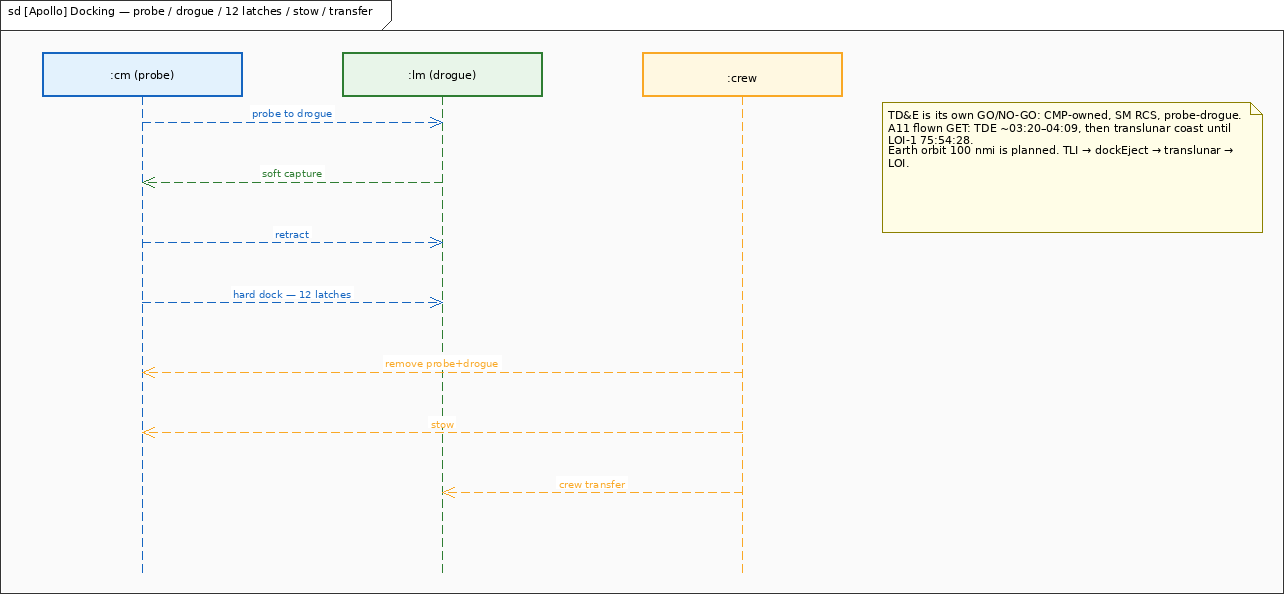
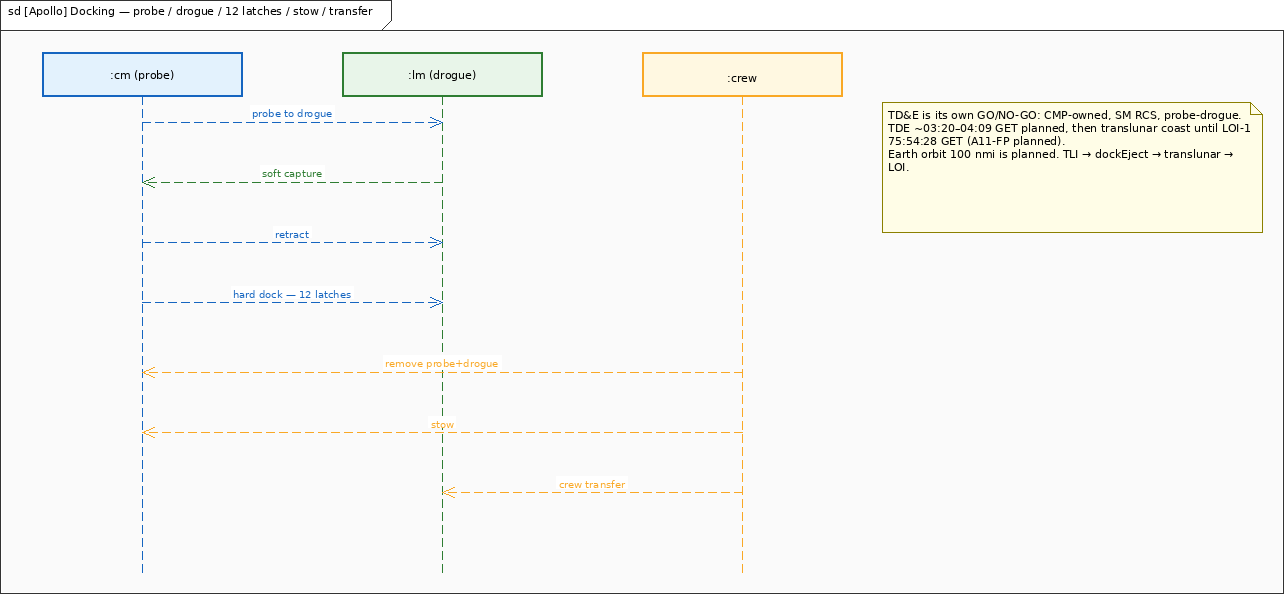
Relabel GET planned vs flown and close MG-01..03
Apollo model and walkthrough now cite A11-FP only for planned LOI-1 75:54:28, flown TIG 075:49:49.65, and TLI PK / A11-FP / MSC-00171. NPR stays MagicGrid with plain-language ideas. E-bike note still teaches packEnergy; toaster heat still lands on the carriage. Drop unsourced frame yield.

Changed region(s): [[0.6854, 0.2121, 0.9657, 0.303]]

diff --git a/tests/test_apollo_example.py b/tests/test_apollo_example.py
@@ -249,13 +249,16 @@ class ApolloExampleTests(unittest.TestCase):
         self.assertIn("PK planned 02:44:15", tli_do)
         self.assertIn("A11-FP 2:44:26", tli_do)
         self.assertIn("flown 02:44:16", tli_do)
+        self.assertIn("MSC-00171", tli_do)
         self.assertNotIn("02:44:16.2", tli_do)
         loi_do = defs["Apollo.State.Mission.LOI"].get("do", "")
         self.assertIn("75:54:28", loi_do)
         self.assertIn("A11-FP", loi_do)
         self.assertIn("planned", loi_do)
-        self.assertIn("~075:49:50", loi_do)
+        self.assertIn("075:49:49.65", loi_do)
+        self.assertNotIn("075:49:50", loi_do)
         self.assertNotIn("Press Kit", loi_do)
+        self.assertNotIn("A11-FP / Press Kit", loi_do)
         self.assertNotIn(" PK", f" {loi_do}")
         self.assertIn("long coast", defs["Apollo.State.Mission.translunar"].get("do", ""))
         self.assertIn("LOI-1", defs["Apollo.State.Mission.translunar"].get("do", ""))
@@ -547,14 +550,17 @@ class ApolloExampleTests(unittest.TestCase):
         self.assertIn("PK planned 02:44:15", tli_do)
         self.assertIn("A11-FP 2:44:26", tli_do)
         self.assertIn("flown 02:44:16", tli_do)
+        self.assertIn("MSC-00171", tli_do)
         get_note = defs["Apollo.Note.GetPlannedFlown"]["text"]
         self.assertIn("75:54:28 GET A11-FP planned", get_note)
         self.assertIn("do not cite Press Kit as the LOI-1 source", get_note)
-        self.assertIn("~075:49:50", get_note)
+        self.assertIn("075:49:49.65", get_note)
+        self.assertNotIn("075:49:50", get_note)
         self.assertIn("PK planned 02:44:15", get_note)
         self.assertIn("A11-FP 2:44:26", get_note)
-        self.assertIn("flown 02:44:16", get_note)
+        self.assertIn("flown 02:44:16 (MSC-00171)", get_note)
         self.assertNotIn("02:44:16.2", get_note)
+        self.assertNotIn("A11-FP / Press Kit", get_note)
         self.assertEqual(defs["Apollo.State.Mission.earthOrbit"].get("do"), "100 nmi planned")
         ecs = {p["name"]: p["type"] for p in defs["Apollo.LM_ECS"]["compartments"]["properties"]}
         self.assertIn("2800", ecs["descentO2"])

diff --git a/tests/test_package.py b/tests/test_package.py
@@ -212,16 +212,15 @@ class PackageApiTests(unittest.TestCase):
         self.assertIn("75:54:28", apollo)
         self.assertIn("A11-FP planned", apollo)
         self.assertIn("do not cite Press Kit as the LOI-1 source", apollo)
-        self.assertIn("075:49:50", apollo)
+        self.assertNotIn("A11-FP / Press Kit", apollo)
+        self.assertIn("075:49:49.65", apollo)
+        self.assertNotIn("075:49:50", apollo)
         self.assertIn("2:44:26", apollo)
         self.assertIn("02:44:16", apollo)
+        self.assertIn("MSC-00171", apollo)
         self.assertNotIn("02:44:16.2", apollo)
-        self.assertIn("Stakeholder", apollo)
-        self.assertIn("Use Cases", apollo)
-        self.assertIn("Functional", apollo)
-        self.assertIn("Logical", apollo)
-        self.assertIn("Physical-subsystem", apollo)
-        self.assertIn("Verification", apollo)
+        self.assertIn("plain language", apollo)
+        self.assertIn("names stay MagicGrid", apollo)
         self.assertIn("not a midcourse correction", apollo)
         self.assertIn("not S-IVB ullage", apollo)
         self.assertIn("not operations", apollo)

diff --git a/projects/apollo/architecture-summary.md b/projects/apollo/architecture-summary.md
@@ -4,16 +4,16 @@ A student can follow this note with `apollo-model.msml` open. It walks Apollo 11
 
 This is **not** a Department of Defense Architecture Framework (DoDAF) product set. There are no All Viewpoint (AV), Operational Viewpoint (OV), Systems Viewpoint (SV), Data and Information Viewpoint (DIV), or Technical Viewpoint (TV) products here.
 
-NASA NPR 7123.1 (NASA Procedural Requirements 7123.1, NASA Systems Engineering Processes and Requirements) is taught **inside** these MagicGrid headings. The walkthrough names the NPR layers so a student can see them. The outline stays MagicGrid — do not switch the section order.
+NASA NPR 7123.1 (NASA Procedural Requirements 7123.1, NASA Systems Engineering Processes and Requirements) is the civil systems-engineering process this walkthrough teaches in **plain language**. Names stay MagicGrid, not NPR product titles. Do not treat MagicGrid section titles as NPR 7123.1 layer names.
 
-| MagicGrid heading | NPR 7123.1 layer named here |
+| MagicGrid heading | NPR idea in plain language |
 | --- | --- |
-| 1. Problem / context | **Stakeholder** |
-| 2. Requirements and use cases | **Requirements** then **Use Cases** |
-| 3. Structure | **Logical** then **Physical-subsystem** |
-| 4. Behavior | **Functional** |
-| 5. Parametrics | **Parametrics** |
-| 6. Allocations | **Verification** |
+| 1. Problem / context | Who needs what from the mission |
+| 2. Requirements and use cases | The shalls that implement those expectations, and the stories that use them |
+| 3. Structure | How the stack is built — parts that realize the functions |
+| 4. Behavior | How the design solution operates in time |
+| 5. Parametrics | Sourced numbers and analyses that support the design |
+| 6. Allocations | Which part satisfies which shall |
 | 7. Open risks / unmarked | What the sources do not close — do not invent |
 
 Namespace `Apollo`. File stem `apollo`. Civil / historical architecture only — no classified or biomedical detail. Numbers are from NASA primary sources; a few values (including an official Command/Service Module (CSM) lunar Δv table) are intentionally left unmarked.
@@ -22,9 +22,7 @@ The instance is Apollo 11 / Block II on vehicle AS-506: SA-506 = S-IC-6 / S-II-6
 
 ## 1. Problem / context
 
-**Stakeholder.** Who needs what from the mission.
-
-**Who.** Flight crew: Commander (CDR), Command Module Pilot (CMP), Lunar Module Pilot (LMP). Launch commit at Kennedy Space Center (KSC) Launch Complex 39 (LC-39). Flight control after tower clear at Mission Control Center Houston (MCC-H). MCC is Mission Control Center Houston, not a midcourse correction burn. Apollo 11 used Mission Operations Control Room 2 (MOCR 2). Trajectory and uplink compute at the Real-Time Computer Complex (RTCC). Ground network: Goddard Space Flight Center (GSFC) / NASA Communications Network (NASCOM) and the Manned Space Flight Network (MSFN). Range Safety Officer (RSO) / Air Force Eastern Test Range (AFETR) owns destruct **outside** MCC. Recovery is Task Force 130 (TF-130) / USS *Hornet*. Earth and Moon are landing / launch-recovery context.
+**Who (stakeholders).** Flight crew: Commander (CDR), Command Module Pilot (CMP), Lunar Module Pilot (LMP). Launch commit at Kennedy Space Center (KSC) Launch Complex 39 (LC-39). Flight control after tower clear at Mission Control Center Houston (MCC-H). MCC is Mission Control Center Houston, not a midcourse correction burn. Apollo 11 used Mission Operations Control Room 2 (MOCR 2). Trajectory and uplink compute at the Real-Time Computer Complex (RTCC). Ground network: Goddard Space Flight Center (GSFC) / NASA Communications Network (NASCOM) and the Manned Space Flight Network (MSFN). Range Safety Officer (RSO) / Air Force Eastern Test Range (AFETR) owns destruct **outside** MCC. Recovery is Task Force 130 (TF-130) / USS *Hornet*. Earth and Moon are landing / launch-recovery context.
 
 Handoff is KSC → MCC at tower clear — Mission Rule 1-21. RSO is not MCC.
 
@@ -40,7 +38,7 @@ Sources used on the model include Apollo 11 Press Kit (PK) 69-83K, Saturn V Flig
 
 ## 2. Requirements and use cases
 
-**Requirements.** The technical shalls that implement those stakeholder expectations.
+The technical shalls that implement those stakeholder expectations:
 
 | Id | Name | Text / numbers |
 | --- | --- | --- |
@@ -55,17 +53,17 @@ Sources used on the model include Apollo 11 Press Kit (PK) 69-83K, Saturn V Flig
 | `Apollo.foodRequirement` (REQ-009) | Food plan (D-7720) | **D-7720 April 1967** plan baseline: **2800 kcal/man/day CM**, **3200 kcal/man/day LM**. Mass **2.26 lb/man/day** planned. 1967 plan, not A11 flown intake. A11 actual kcal still UNKNOWN. |
 | `Apollo.lmEcsRequirement` (REQ-010) | LM-5 ECS (sourced) | Descent O2 ~48 lb @ **2800 vs 3000 psi** (TN D-6724 — cite both); ascent O2 ~2.4 lb ×2; descent water 332 lb; ascent water 42 lb ×2; Liquid Cooling Garment (LCG) 1200 Btu/man-h steady. |
 
-**Use Cases.** There is no formal use-case package on this MSML model the way the appliances have `Toaster.UC.*`. The stakeholder stories are recovered from the mission state machine (STM), abort STM, activity, and sequences: fly the mission, abort, land, recover.
+There is no formal use-case package on this MSML model the way the appliances have `Toaster.UC.*`. The stakeholder stories are recovered from the mission state machine (STM), abort STM, activity, and sequences: fly the mission, abort, land, recover.
 
 ## 3. Structure
 
-**Logical.** Decomposition of the stack into the parts that realize those functions, before reading a physical-subsystem diagram.
+Decomposition of the stack into the parts that realize those functions, before reading a physical-subsystem diagram.
 
 Pad stack: S-IC-6, S-II-6, S-IVB-6N, IU-6, SLA-14 (**8 panels: 4 jettison / 4 stay**; LM-5), SM (owns **SPS**), CM, LES.
 
 Two AGCs stay separate from AGS. AGS ≠ DSKY. IU = LVDC + ST-124 + FCC; no digital AGC↔LVDC.
 
-**Physical-subsystem.** The design solution on the model.
+The design solution on the model:
 
 **SPS is on the SM, not the CM.** Service Propulsion System (SPS) composition is `Apollo.SM` → `Apollo.SPS`. The CSM internal block diagram (IBD) nests `sps` inside `sm`. Do not hang SPS on the command module.
 
@@ -88,7 +86,7 @@ Docking hardware: CM probe, LM drogue, twelve ring latches. Soft dock then hard 
 
 ## 4. Behavior
 
-**Functional.** How the design solution operates in time — mission, abort, and computer modes.
+How the design solution operates in time — mission, abort, and computer modes.
 
 Mission STM (locked):
 
@@ -96,7 +94,7 @@ countdown → boost → earthOrbit → TLI → dockEject → translunar → LOI 
 
 `dockEject` is its own state (CMP-owned, SM RCS, probe-drogue). Do not draw TLI → translunar or dockEject → LOI, and do not put translunar before dockEject. The locked path is TLI → dockEject → translunar → LOI.
 
-Ground Elapsed Time (GET): distinguish **planned** vs **flown**. Earth orbit **100 nmi is planned**. TLI has **three labeled numbers**: Press Kit **planned** `02:44:15`; A11-FP `2:44:26`; **flown** `02:44:16` (no `02:44:16.2`). TDE `~03:20–04:09` GET is **planned**. LOI-1 has **two strings only**: `75:54:28` GET is **A11-FP planned** (do not cite Press Kit as the LOI-1 source — the same string may appear in the Press Kit); **flown** LOI-1 is `~075:49:50` GET. Splash `195:18:35` Mission Elapsed Time (MET) / 13 nmi sits on Recovery as a sourced MET; that block is not labeled flown. P66 Rate of Descent (ROD) as the A11 landing program is a separate flown-program mark, not a GET clock.
+Ground Elapsed Time (GET): distinguish **planned** vs **flown**. Earth orbit **100 nmi is planned**. TLI has **three labeled numbers**: Press Kit **planned** `02:44:15`; A11-FP `2:44:26`; **flown** `02:44:16` (MSC-00171). TDE `~03:20–04:09` GET is **planned**. LOI-1 has **two strings only**: `75:54:28` GET is **A11-FP planned** (A11-FP is the control source; do not cite Press Kit as the LOI-1 source — the same string may appear in the Press Kit); **flown** LOI-1 TIG is `075:49:49.65` GET. Splash `195:18:35` Mission Elapsed Time (MET) / 13 nmi sits on Recovery as a sourced MET; that block is not labeled flown. P66 Rate of Descent (ROD) as the A11 landing program is a separate flown-program mark, not a GET clock.
 
 Abort machine (parallel): pad/LES, Modes I–IV, contingency TLI, SPS abort, lunar abort (P70 DPS / P71 APS). Crew Safety ≠ LES-only.
 
@@ -106,7 +104,7 @@ The mission activity is the same phase list as a start-to-recovery flow. The lan
 
 ## 5. Parametrics
 
-**Parametrics.** Analyses and sourced numbers that support the design. Conflicts stay **UNRECONCILED** — cite both, no silent winner.
+Analyses and sourced numbers that support the design. Conflicts stay **UNRECONCILED** — cite both, no silent winner.
 
 A11 Press Kit p.109 tank loads and launch masses unless noted. **UNRECONCILED** — same flag as Δv. These are sourced stage loads, **not a closed mass budget**.
 
@@ -139,7 +137,7 @@ Fuel-cell wattage is not in the press kit; a secondary National Air and Space Mu
 
 ## 6. Allocations
 
-**Verification.** Product verification / validation trace — which part satisfies which shall.
+Which part satisfies which shall:
 
 | Requirement | Allocated to |
 | --- | --- |
@@ -177,7 +175,7 @@ Descent O2 tank pressure is cited both ways (2800 vs 3000 psi, TN D-6724). Tank 
 
 ## Generated views
 
-These figures illustrate the architecture above; they do not replace it. Every rendered figure in this folder is listed. Read them as the MagicGrid / NPR layers: context is Stakeholder; `apollo-req` is Requirements; activity and STMs are Functional; BDDs are Logical; IBDs are Physical-subsystem; `apollo-eclss-par` is Parametrics; allocations on the model are Verification.
+These figures illustrate the architecture above; they do not replace it. Every rendered figure in this folder is listed. Read them in MagicGrid order: context, requirements, structure, behavior, sourced numbers, then which part satisfies which shall. Do not treat those figure roles as NPR 7123.1 layer names.
 
 **`apollo-pkg.png` — packages.** LaunchVehicle, Spacecraft, Crew, GNC, Ground, Comms, Mission. Read this first to see how the model is filed.
 

diff --git a/AGENTS.md b/AGENTS.md
@@ -57,7 +57,7 @@ Starter: [templates/new-project/](templates/new-project/). Spec: [msml-specifica
 - P-numbers are not global. CMC P61–P67 is ENTRY; LGC P63–P68 is LANDING — two STMs (`apollo-cmc-stm`, `apollo-lgc-stm`). AGC does not talk digital to LVDC. 1201/1202 is a software restart, not an abort. Cite both SPS 20,500 (PK) vs 21,500 vac (TN D-7375) and DPS 9,870 / 1,050–6,300 (PK) vs 10,500 and 10:1 (TN D-7143).
 - Context is vehicle / crew / MCC / MSFN / Moon / Earth (RTCC sits with MCC). Uplink and downlink are distinct. Two command paths: (A) FC→CCC→RTCC→CCATS→site 642B→USB 70 kHz; (B) P27 V70–V73. Block II antennas are crew-selected.
 - IBD connectors never pass through boxes. Saturn joints are adjacent only.
-- Mission STM: countdown → boost → earthOrbit (100 nmi **planned**) → TLI → dockEject → translunar → LOI → undock → DOI → descent → surface/EVA → ascent → rendezvous → TEI → entry → recovery. `dockEject` is its own state (CMP-owned, SM RCS, probe-drogue). Sequence lock with SysML2d: **TLI → dockEject → translunar → LOI** (not translunar then dockEject). Do **not** jump TLI → translunar or dockEject → LOI. GET: planned vs flown — earth orbit 100 nmi is planned. TLI three labels: PK planned 02:44:15; A11-FP 2:44:26; flown 02:44:16 (no 02:44:16.2). TDE ~03:20–04:09 is planned. LOI-1 two strings only: 75:54:28 GET is A11-FP planned (do not cite Press Kit as the LOI-1 source); flown ~075:49:50 GET. IU owns boost+TLI. RSO owns destruct until orbital safing. Abort machine in parallel: pad/LES, Modes I–IV, contingency TLI, SPS abort, lunar abort (P70 DPS / P71 APS). SPS is on the SM. landingRadar is on the descent stage, not PNGS / ascent.
+- Mission STM: countdown → boost → earthOrbit (100 nmi **planned**) → TLI → dockEject → translunar → LOI → undock → DOI → descent → surface/EVA → ascent → rendezvous → TEI → entry → recovery. `dockEject` is its own state (CMP-owned, SM RCS, probe-drogue). Sequence lock with SysML2d: **TLI → dockEject → translunar → LOI** (not translunar then dockEject). Do **not** jump TLI → translunar or dockEject → LOI. GET: planned vs flown — earth orbit 100 nmi is planned. TLI three labels: PK planned 02:44:15; A11-FP 2:44:26; flown 02:44:16 (MSC-00171). TDE ~03:20–04:09 is planned. LOI-1 two strings only: 75:54:28 GET is A11-FP planned (A11-FP is the control source; do not cite Press Kit as the LOI-1 source); flown LOI-1 TIG 075:49:49.65 GET. IU owns boost+TLI. RSO owns destruct until orbital safing. Abort machine in parallel: pad/LES, Modes I–IV, contingency TLI, SPS abort, lunar abort (P70 DPS / P71 APS). SPS is on the SM. landingRadar is on the descent stage, not PNGS / ascent.
 - Vehicle lock: Apollo 11 / Block II, AS-506 = S-IC-6 / S-II-6 / S-IVB-6N / IU-6 / SLA-14 / CSM-107 / LM-5. Two AGCs (CM Colossus + 2 DSKY; LM Luminary + 1 DSKY). AGS is a separate computer (AEA+ASA+DEDA; abort-to-orbit / rendezvous only). P27 verbs remain V70–V73 only. A11 MCC is MOCR 2 (3rd floor); handoff Mission Rule 1-21 at umbilical-tower clear; Petrone commits launch; AFETR stays parallel destruct. A11 SM cryo is 2 H2 + 2 O2 (not J-mission). No electrical power between Saturn stages; no CSM–LM propellant crossfeed.
 
 ## Checks

diff --git a/skills/author-model/SKILL.md b/skills/author-model/SKILL.md
@@ -21,7 +21,7 @@ Read [msml-specification.md](../../msml-specification.md) before inventing field
 | Example | Why it exists |
 | --- | --- |
 | [projects/e-bike/e-bike-model.msml](../../projects/e-bike/e-bike-model.msml) | Publish hero. Frozen `ElectricBike::` names. |
-| [projects/apollo/apollo-model.msml](../../projects/apollo/apollo-model.msml) | Full system + subsystem. Apollo 11 / Block II, AS-506. Sourced vehicle/AGC/electrical/AGS/docking/RCS (SM/LM 100 lbf, CM 93 lbf). Mission STM: TLI → dockEject → translunar → LOI (not translunar then dockEject). TDE ~03:20–04:09 planned; LOI-1 75:54:28 A11-FP planned (do not cite Press Kit as the LOI-1 source); flown LOI-1 ~075:49:50. TLI: PK planned 02:44:15; A11-FP 2:44:26; flown 02:44:16. SPS on SM. landingRadar on descent (three-beam, P63–P64); rendezvousRadar on ascent. D-7720 April 1967 food 2800 CM / 3200 LM (not A11 flown). Crew Safety not LES-only. UNKNOWN: official CSM lunar Δv, SPS loaded lb, AGS program name, loaded SM/CM RCS propellant. |
+| [projects/apollo/apollo-model.msml](../../projects/apollo/apollo-model.msml) | Full system + subsystem. Apollo 11 / Block II, AS-506. Sourced vehicle/AGC/electrical/AGS/docking/RCS (SM/LM 100 lbf, CM 93 lbf). Mission STM: TLI → dockEject → translunar → LOI (not translunar then dockEject). TDE ~03:20–04:09 planned; LOI-1 75:54:28 A11-FP planned (A11-FP is the control source; do not cite Press Kit as the LOI-1 source); flown LOI-1 TIG 075:49:49.65. TLI: PK planned 02:44:15; A11-FP 2:44:26; flown 02:44:16 (MSC-00171). SPS on SM. landingRadar on descent (three-beam, P63–P64); rendezvousRadar on ascent. D-7720 April 1967 food 2800 CM / 3200 LM (not A11 flown). Crew Safety not LES-only. UNKNOWN: official CSM lunar Δv, SPS loaded lb, AGS program name, loaded SM/CM RCS propellant. |
 | [projects/appliances/toaster/toaster-model.msml](../../projects/appliances/toaster/toaster-model.msml) | Coverage canary for all twelve views. |
 
 Copy *patterns* from those files. Do not remap ElectricBike ids.

diff --git a/projects/apollo/README.md b/projects/apollo/README.md
@@ -49,6 +49,6 @@ Sourced numbers are on the model (USB RF kept; VHF 296.8 / 259.7 and 243.0 MHz b
 | Docking sequence | `apollo-dock` | Probe / drogue / soft capture / 12 latches / stow / transfer |
 | RCS package | `apollo-rcs` | SM / LM 100 lbf (A11 PK p.93 / p.106) · CM dual 6-engine 93 lbf · loaded mass UNKNOWN |
 
-Mission STM: countdown → boost → earthOrbit (100 nmi planned) → TLI → dockEject → translunar → LOI → undock → DOI → descent → surface/EVA → ascent → rendezvous → TEI → entry → recovery. `dockEject` is its own state (CMP-owned, SM RCS, probe-drogue). Do **not** put translunar before dockEject, and do not jump TLI → translunar or dockEject → LOI. TDE ~03:20–04:09 GET is planned. LOI-1 75:54:28 GET is A11-FP planned (do not cite Press Kit as the LOI-1 source); flown LOI-1 is ~075:49:50 GET. TLI three labels: PK planned 02:44:15; A11-FP 2:44:26; flown 02:44:16. IU owns boost+TLI; RSO owns destruct until orbital safing.
+Mission STM: countdown → boost → earthOrbit (100 nmi planned) → TLI → dockEject → translunar → LOI → undock → DOI → descent → surface/EVA → ascent → rendezvous → TEI → entry → recovery. `dockEject` is its own state (CMP-owned, SM RCS, probe-drogue). Do **not** put translunar before dockEject, and do not jump TLI → translunar or dockEject → LOI. TDE ~03:20–04:09 GET is planned. LOI-1 75:54:28 GET is A11-FP planned (A11-FP is the control source; do not cite Press Kit as the LOI-1 source); flown LOI-1 TIG is 075:49:49.65 GET. TLI three labels: PK planned 02:44:15; A11-FP 2:44:26; flown 02:44:16 (MSC-00171). IU owns boost+TLI; RSO owns destruct until orbital safing.
 
 Abort machine (parallel): pad/LES, Modes I–IV, contingency TLI, SPS abort, lunar abort (P70 DPS / P71 APS).

diff --git a/projects/e-bike/architecture-summary.md b/projects/e-bike/architecture-summary.md
@@ -103,7 +103,7 @@ The activity is power on → select assist → pedal → apply brake → inhibit
 
 Parametric `energyBalance` is pack-only and still binds `packEnergy`, not a `usableWh` parameter. Do not add rider pedal watts into that expression. Do not read 500 Wh as a nameplate.
 
-Frame `yieldMargin: ≥ 1.5` is a typed property with **no cited source**. It is not a shall. The structural shall is qualitative: carry rider, cargo, and battery loads without yielding.
+The unsourced frame `yieldMargin: ≥ 1.5` figure is **dropped** from the model. The structural shall stays qualitative: carry rider, cargo, and battery loads without yielding.
 
 Cell V/T chemistry numbers are unmarked. F-E06 stays unmarked.
 
@@ -132,7 +132,7 @@ Ride Safety is fail-silent across brakes + controller + cadence + BMS, not brake
 - Cell V/T limits are named (`Vmax`, `Tmax`) without filled chemistry numbers.
 - Lighting is allocated to HMI; lamp hardware is not a separate part.
 - Regen is explicitly none; do not add it.
-- Frame `yieldMargin: ≥ 1.5` is unsourced — not a shall.
+- The unsourced frame `≥ 1.5` yield figure is dropped; the structural shall stays qualitative.
 - F-E06 stays unmarked.
 
 ## Generated views
